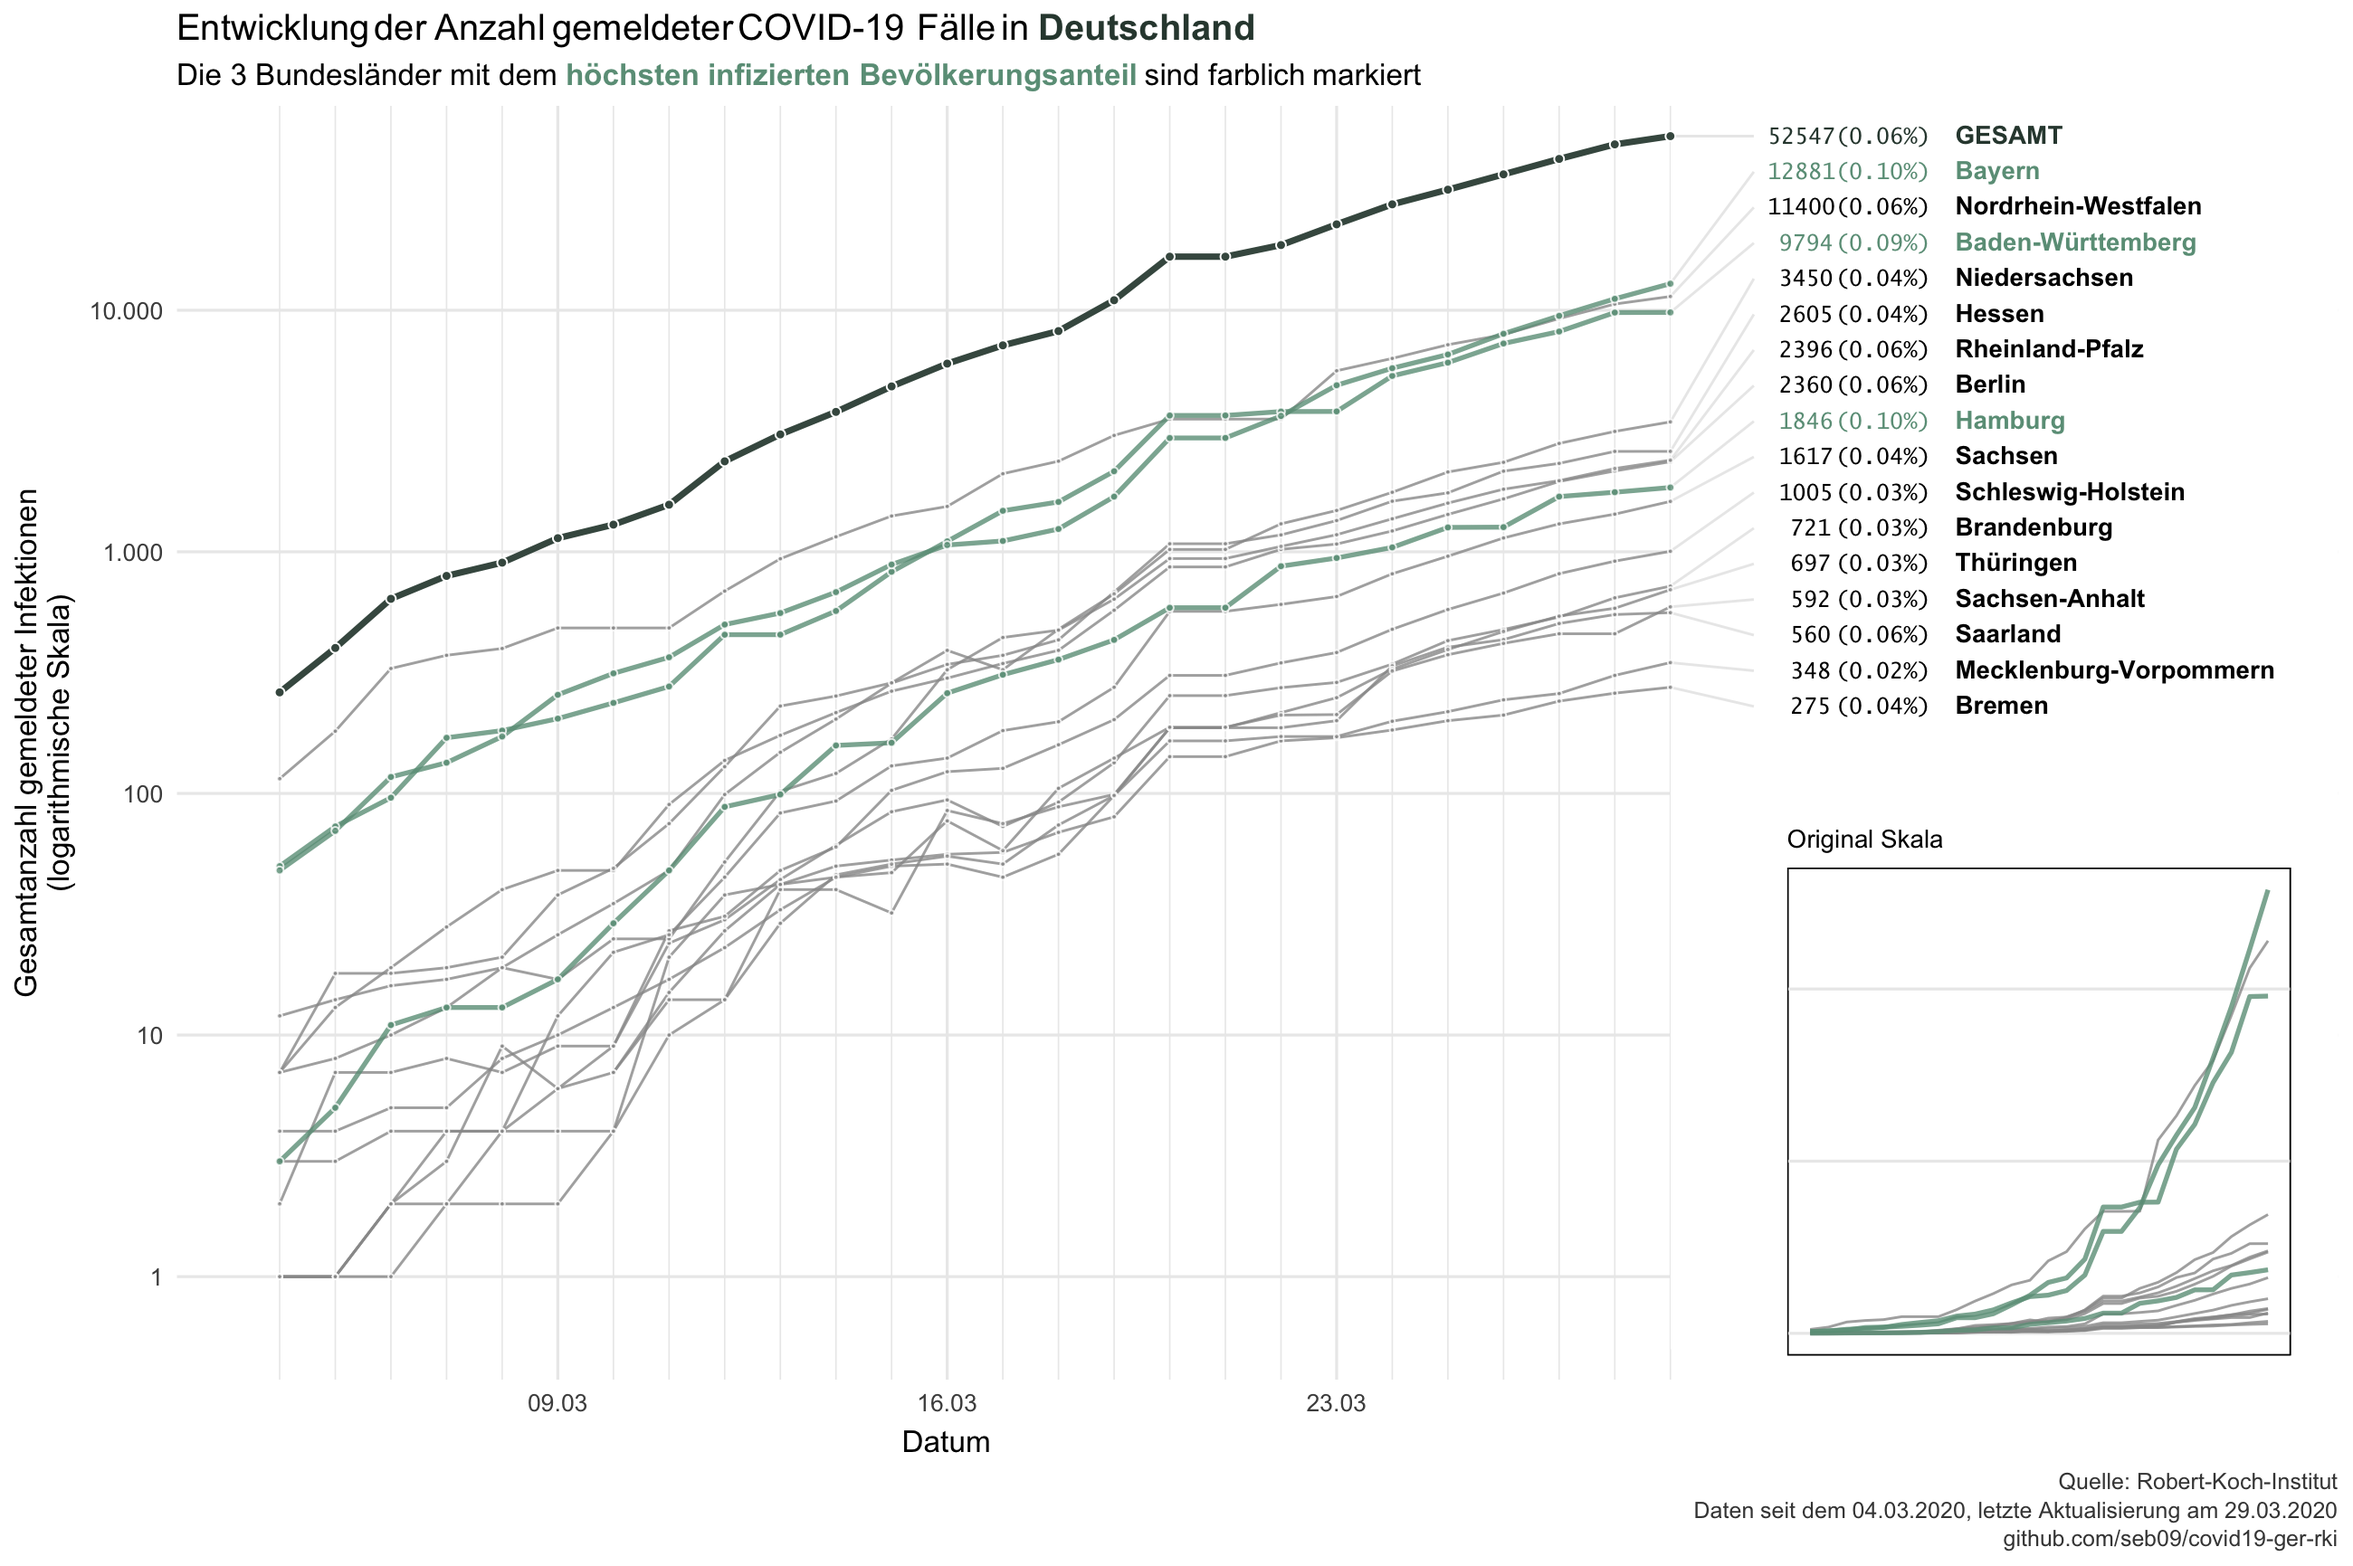
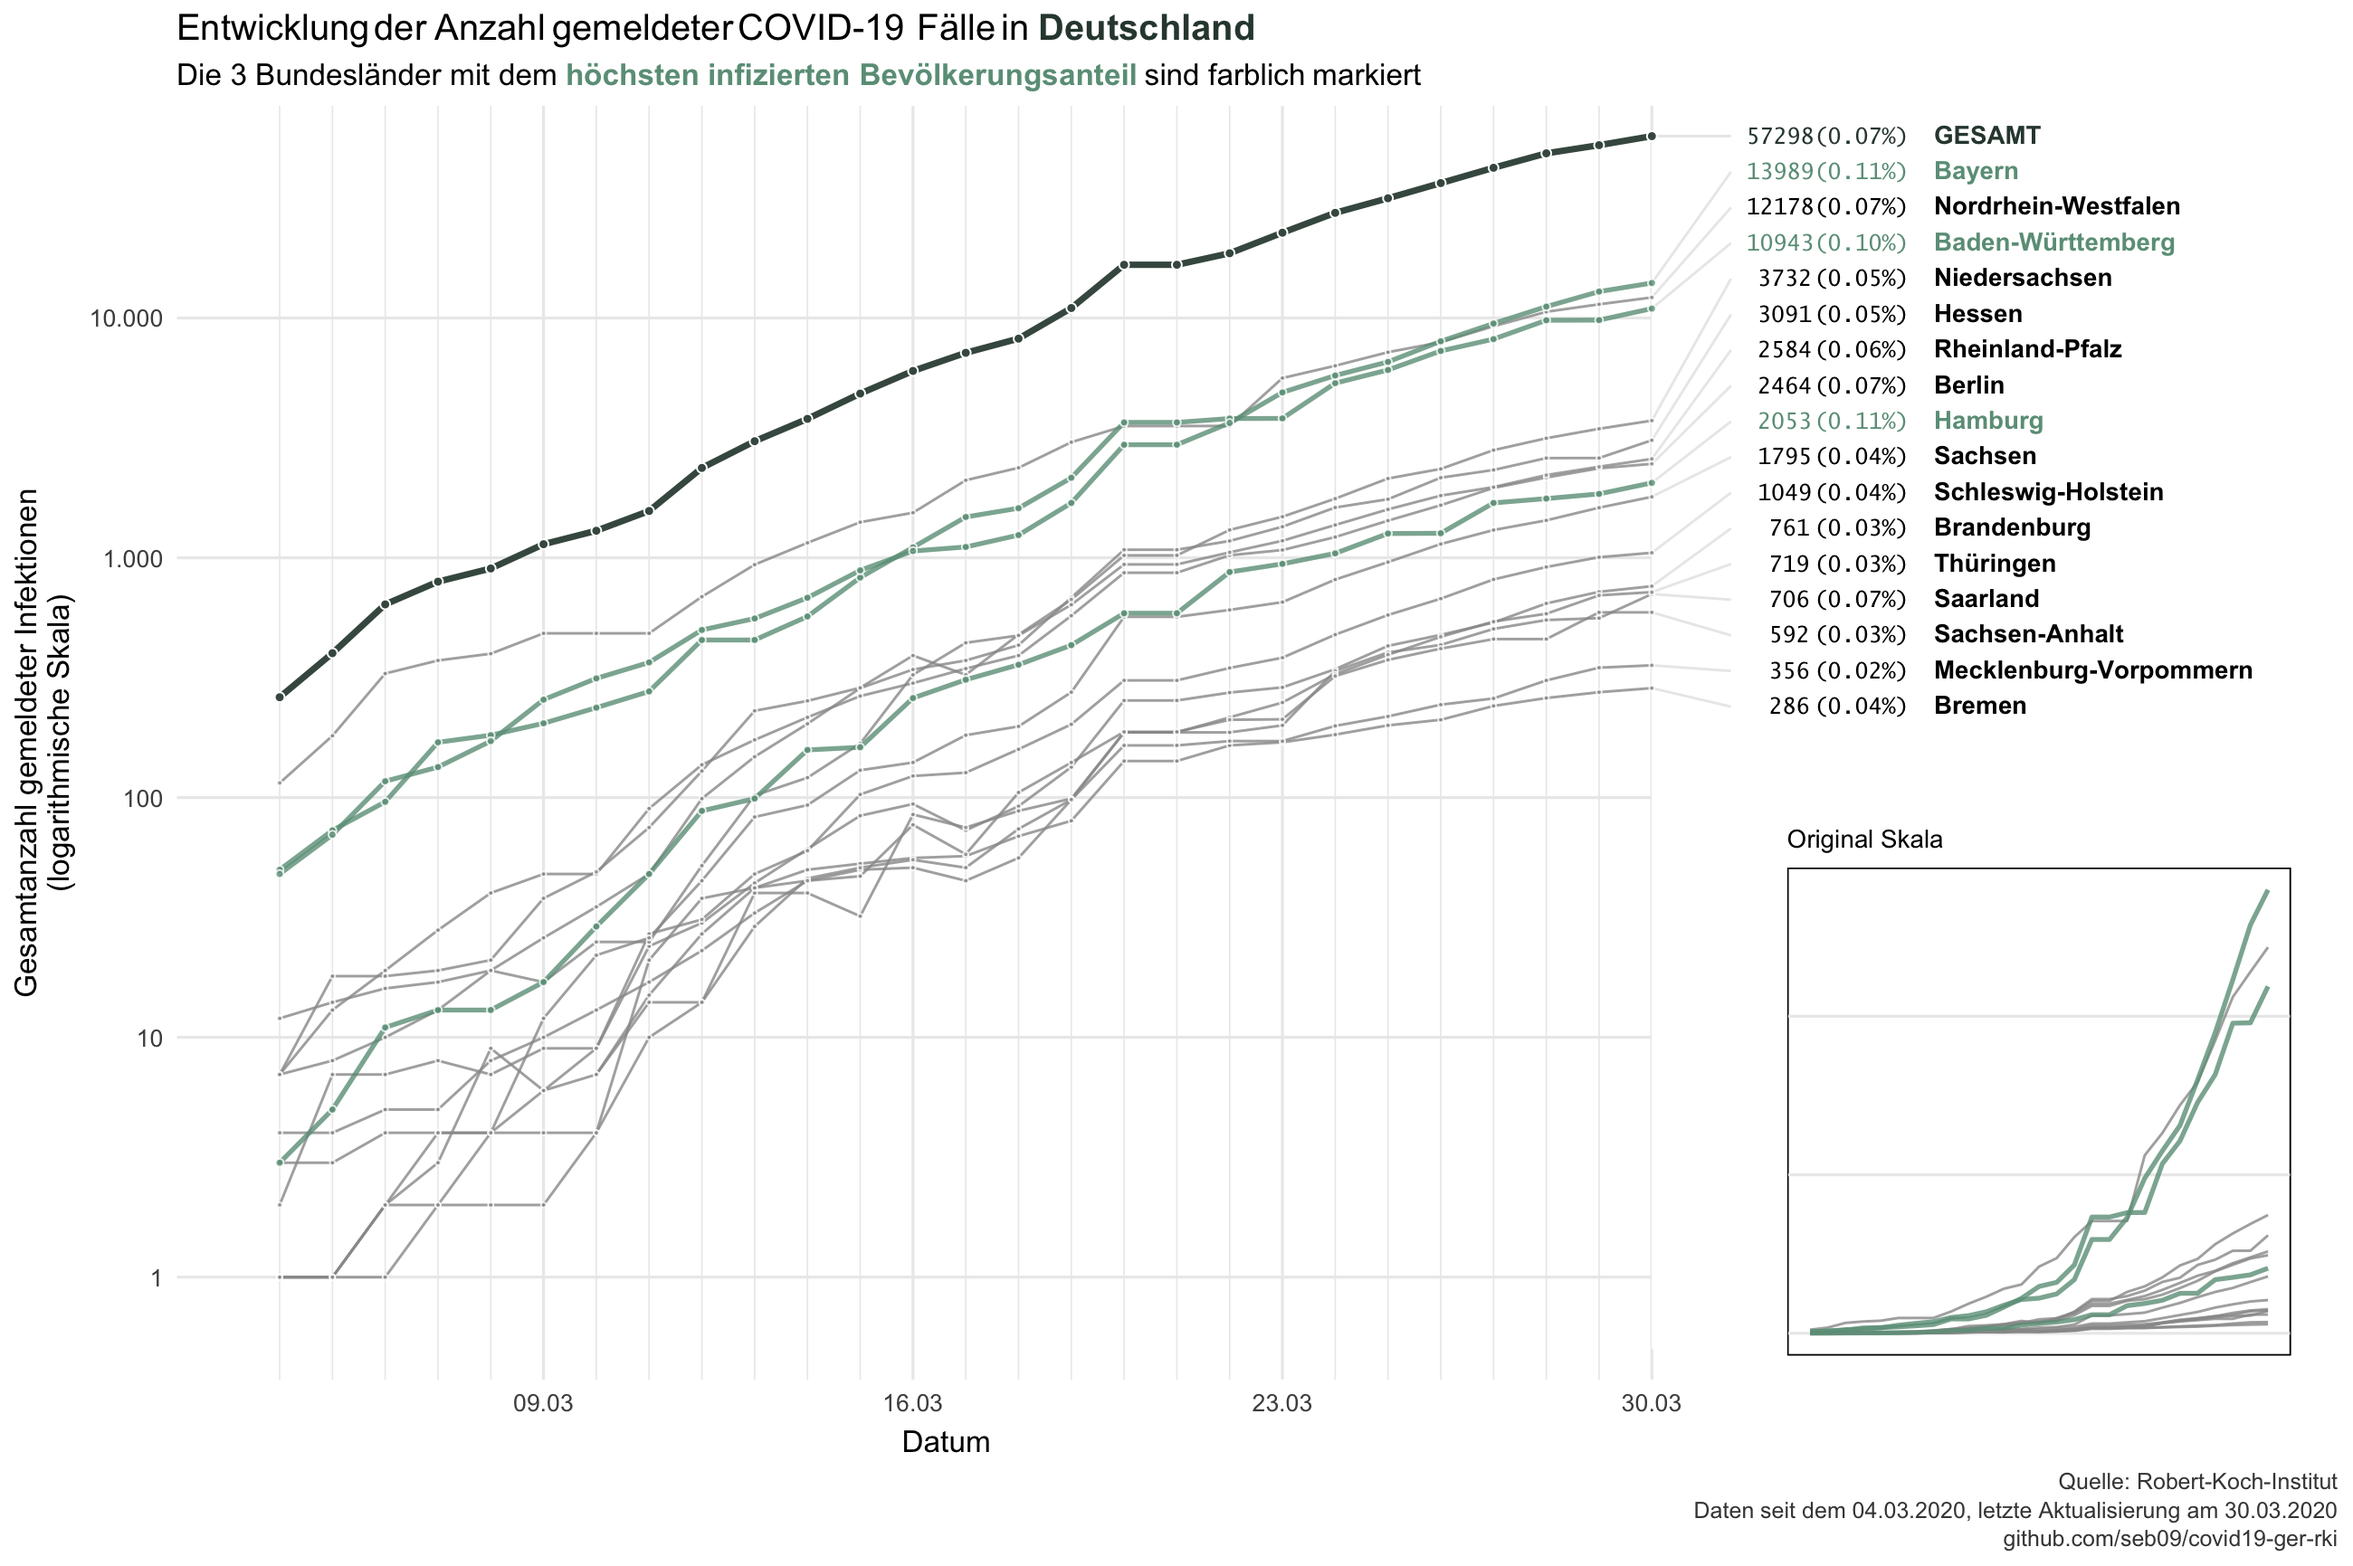
update 2020-03-30

diff --git a/README.md b/README.md
@@ -1,6 +1,6 @@
 Data from the Robert-Koch-Institut on COVID-19 in Germany
 ================
-Last update: 2020-03-29
+Last update: 2020-03-30
 
 This repository contains data on reported COVID-19 cases in Germany and
 its federal states that is published daily by the Robert-Koch-Institut
@@ -9,23 +9,24 @@ its federal states that is published daily by the Robert-Koch-Institut
 ``` r
 library(tidyverse)
 corona_rki <- read_csv("data/corona_deu_rki.csv")
-corona_rki
+corona_rki %>% 
+  arrange(-as.numeric(Datum), Bundesland)
 ```
 
-    ## # A tibble: 410 x 6
-    ##    Datum      Bundesland  Fallzahl Todeszahl Fallzahl_neu Todeszahl_neu
-    ##    <date>     <chr>          <dbl>     <dbl>        <dbl>         <dbl>
-    ##  1 2020-03-04 Brandenburg        1         0            0             0
-    ##  2 2020-03-05 Brandenburg        1         0            0             0
-    ##  3 2020-03-06 Brandenburg        2         0            1             0
-    ##  4 2020-03-07 Brandenburg        2         0            0             0
-    ##  5 2020-03-08 Brandenburg        4         0            2             0
-    ##  6 2020-03-09 Brandenburg        6         0            2             0
-    ##  7 2020-03-10 Brandenburg        9         0            3             0
-    ##  8 2020-03-11 Brandenburg       24         0           15             0
-    ##  9 2020-03-12 Brandenburg       30         0            6             0
-    ## 10 2020-03-13 Brandenburg       44         0           14             0
-    ## # … with 400 more rows
+    ## # A tibble: 426 x 6
+    ##    Datum      Bundesland      Fallzahl Todeszahl Fallzahl_neu Todeszahl_neu
+    ##    <date>     <chr>              <dbl>     <dbl>        <dbl>         <dbl>
+    ##  1 2020-03-30 Baden-Württemb…    10943       119         1149            18
+    ##  2 2020-03-30 Bayern             13989       127         1108            20
+    ##  3 2020-03-30 Berlin              2464        11          104             2
+    ##  4 2020-03-30 Brandenburg          761         2           40             1
+    ##  5 2020-03-30 Bremen               286         2           11             0
+    ##  6 2020-03-30 Hamburg             2053         5          207             1
+    ##  7 2020-03-30 Hessen              3091        13          486             4
+    ##  8 2020-03-30 Mecklenburg-Vo…      356         1            8             0
+    ##  9 2020-03-30 Niedersachsen       3732        26          282             5
+    ## 10 2020-03-30 Nordrhein-West…    12178       101          778             3
+    ## # … with 416 more rows
 
 Data is downloaded each day at 11am from the [website of the
 RKI](https://www.rki.de/DE/Content/InfAZ/N/Neuartiges_Coronavirus/Fallzahlen.html)
